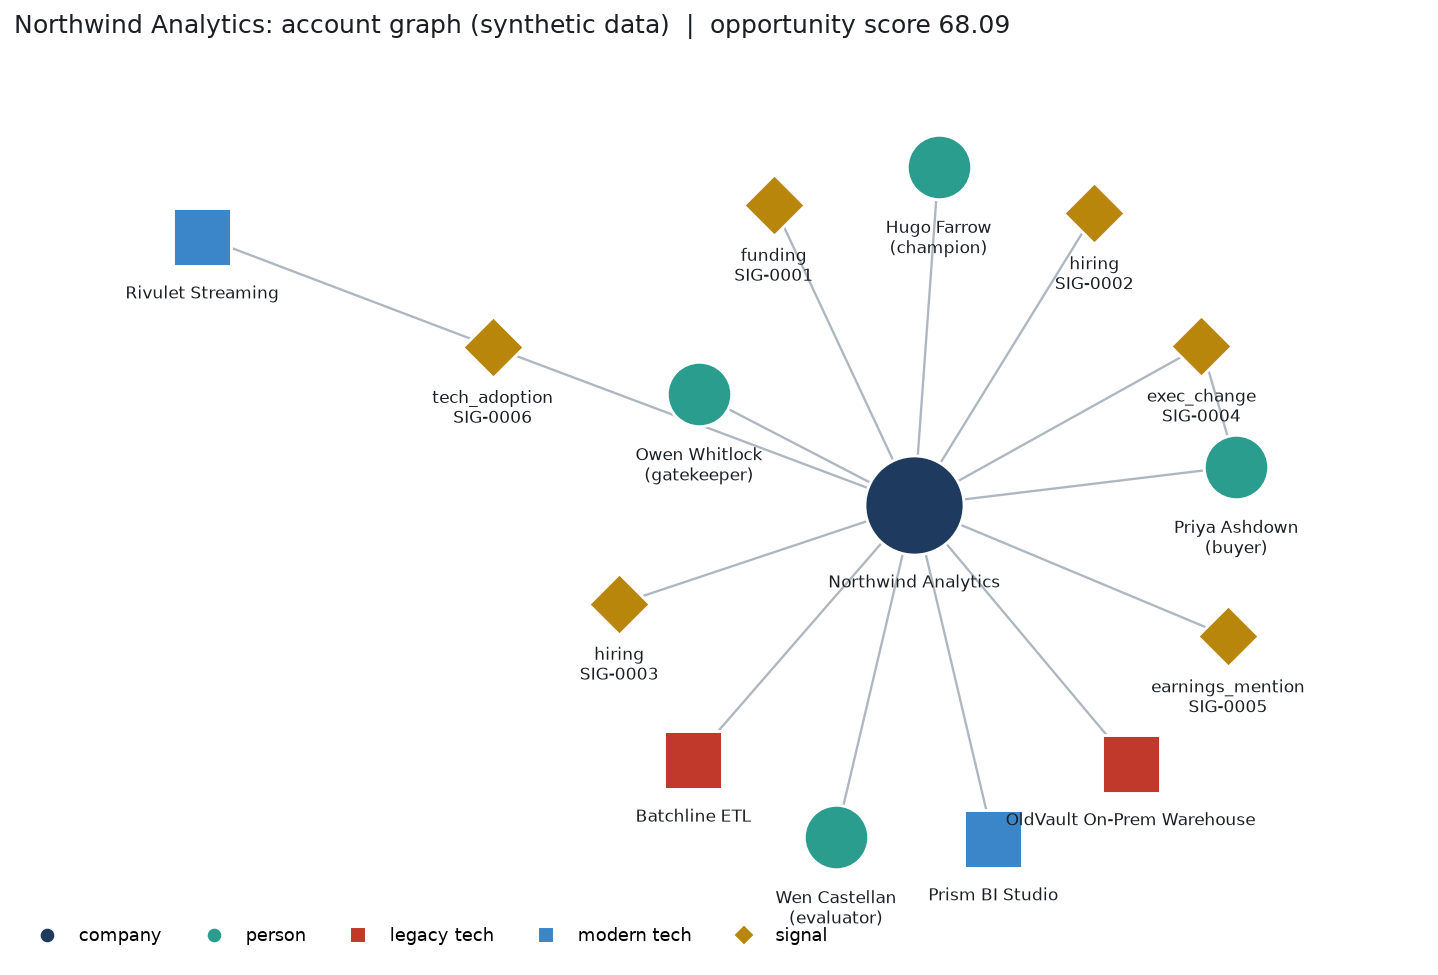
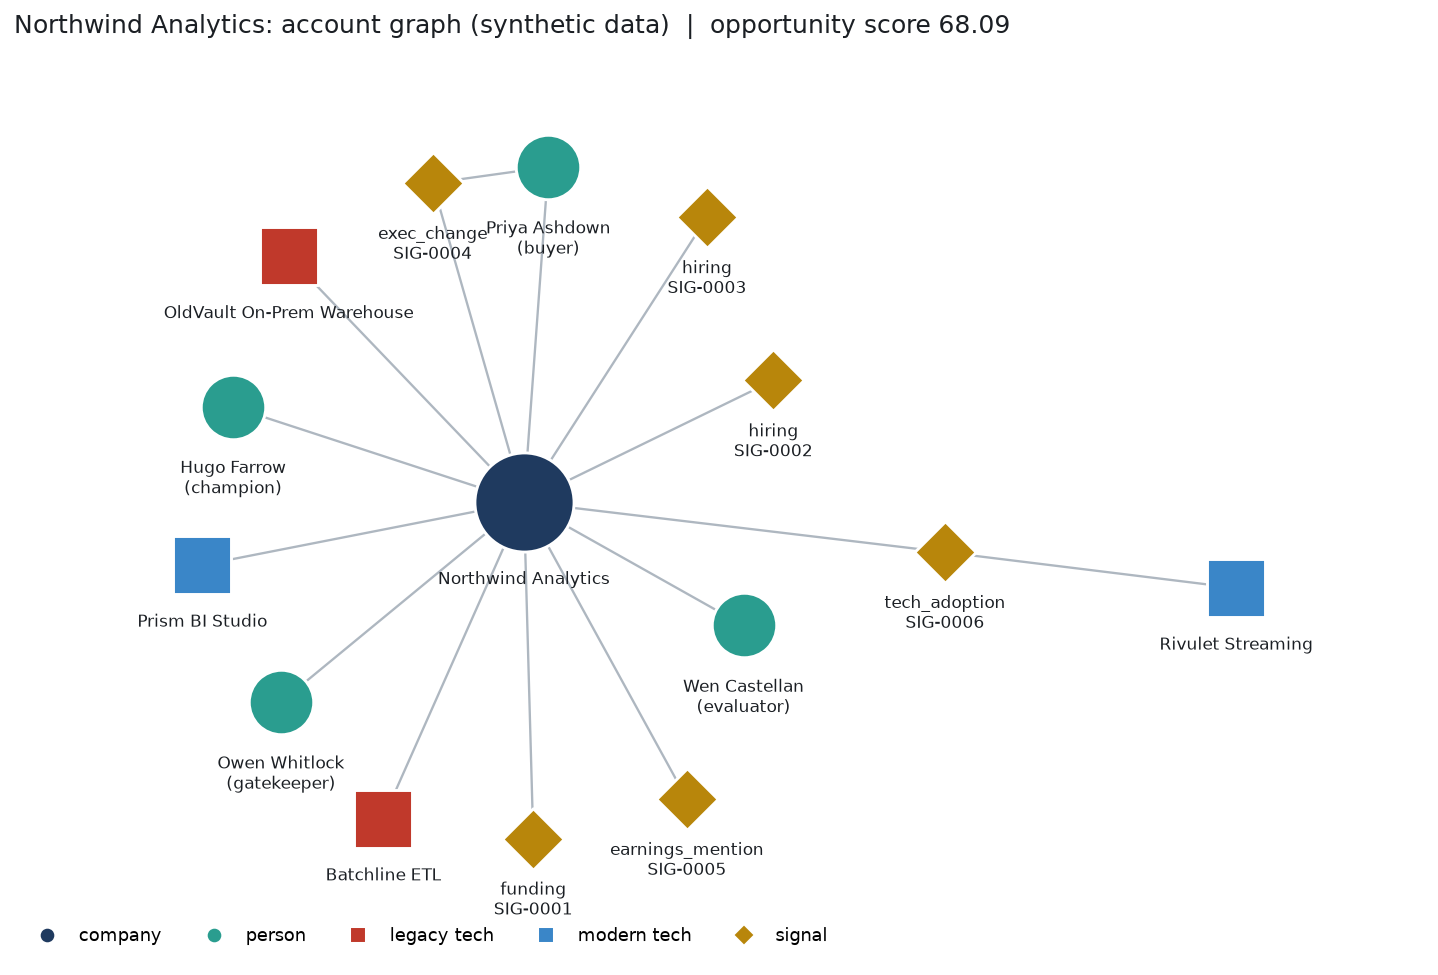
README quickstart and links, stricter LLM validation, softer funding language

diff --git a/outputs/brief_northwind_analytics.html b/outputs/brief_northwind_analytics.html
@@ -39,7 +39,7 @@
   </div>
 
   <h2>Suggested angle</h2>
-  <div class="card"><ul style="margin:0;padding-left:20px"><li style="margin:4px 0">Modernisation window: legacy stack (Batchline ETL, OldVault On-Prem Warehouse) alongside hiring and stated priority [SIG-0003, SIG-0005]. Position Aster Data Cloud as the migration path, not a rip-and-replace.</li><li style="margin:4px 0">New data leader [SIG-0004]: leaders usually reset platform decisions in their first months. Offer a short evidence-based review.</li><li style="margin:4px 0">Fresh funding [SIG-0001] means budget exists but pressure to show scale. Lead with time-to-value.</li><li style="margin:4px 0">Active evaluation signal [SIG-0006]: ask what the pilot is meant to prove before it ends.</li></ul></div>
+  <div class="card"><ul style="margin:0;padding-left:20px"><li style="margin:4px 0">Modernisation window: legacy stack (Batchline ETL, OldVault On-Prem Warehouse) alongside hiring and stated priority [SIG-0003, SIG-0005]. Position Aster Data Cloud as the migration path, not a rip-and-replace.</li><li style="margin:4px 0">New data leader [SIG-0004]: leaders usually reset platform decisions in their first months. Offer a short evidence-based review.</li><li style="margin:4px 0">Recent funding [SIG-0001] may indicate investment capacity, not confirmed budget. Validate who owns the data platform budget and when it is allocated.</li><li style="margin:4px 0">Active evaluation signal [SIG-0006]: ask what the pilot is meant to prove before it ends.</li></ul></div>
 
   <h2>Stakeholders</h2>
   <div class="card"><table>

diff --git a/src/cig/synthesis.py b/src/cig/synthesis.py
@@ -1,9 +1,10 @@
 """Brief narrative. Two modes, described honestly:
 
 * template (default): deterministic rules over the scored facts. No model involved.
-* llm (optional, needs ANTHROPIC_API_KEY): ONE grounded model call that rewrites the narrative from
-  the same structured facts. It is a single call, not an autonomous agent. Output is validated:
-  any cited signal ID that is not in the profile makes us fall back to the template.
+* llm (optional, needs ANTHROPIC_API_KEY): ONE model call that rewrites the narrative from the same
+  structured facts. It is a single call, not an autonomous agent. Output is checked: any cited signal ID
+  not in the profile, or any figure not present in the input facts, falls back to the template.
+  Limit: it does not verify that each claim is semantically supported by its cited signal.
 """
 import json
 import os
@@ -17,6 +18,7 @@ from .config import SELLER_PRODUCT
 MODEL = os.environ.get("CIG_MODEL", "claude-sonnet-5-5")
 TEMPLATES = Path(__file__).parent / "templates"
 SIG_RE = re.compile(r"SIG-\d{4}")
+NUM_RE = re.compile(r"\d+(?:\.\d+)?")
 
 
 def _top_signals(profile, n=3):
@@ -47,8 +49,8 @@ def narrative_template(profile: dict) -> dict:
                            "platform decisions in their first months. Offer a short evidence-based review.")
         questions.append("What did the new data leader commit to in the first 90 days?")
     if by_type.get("funding"):
-        angle_parts.append(f"Fresh funding [{by_type['funding'][0]['signal_id']}] means budget exists "
-                           "but pressure to show scale. Lead with time-to-value.")
+        angle_parts.append(f"Recent funding [{by_type['funding'][0]['signal_id']}] may indicate investment capacity, "
+                           "not confirmed budget. Validate who owns the data platform budget and when it is allocated.")
     if by_type.get("tech_adoption"):
         angle_parts.append(f"Active evaluation signal [{by_type['tech_adoption'][0]['signal_id']}]: "
                            "ask what the pilot is meant to prove before it ends.")
@@ -74,12 +76,12 @@ def _facts_for_llm(profile: dict) -> dict:
 
 
 SYSTEM = ("You write concise account briefs for a B2B seller. Use ONLY the facts in the JSON the user "
-          "sends. Never invent facts, numbers or names. Cite supporting signals as [SIG-0000]. "
+          "sends. Never invent facts, numbers or names. Treat funding as a capacity signal, not proof of budget. Cite supporting signals as [SIG-0000]. "
           "Return JSON with keys: summary (string), angle (array of 1-4 short strings), questions (array of 3 strings).")
 
 
 def narrative_llm(profile: dict, client=None) -> dict:
-    """One grounded call. Raises ValueError if the output cannot be trusted."""
+    """One validated call. Raises ValueError if the output cannot be trusted."""
     if client is None:
         import anthropic  # optional dependency
         client = anthropic.Anthropic()
@@ -93,12 +95,17 @@ def narrative_llm(profile: dict, client=None) -> dict:
     known = {s["signal_id"] for s in profile["signals"]}
     cited = set(SIG_RE.findall(json.dumps(out)))
     if not cited or not cited <= known:
-        raise ValueError(f"Ungrounded citations: {sorted(cited - known) or 'none cited'}")
+        raise ValueError(f"Unknown citations: {sorted(cited - known) or 'none cited'}")
+    facts_text = SIG_RE.sub("", json.dumps(_facts_for_llm(profile)))
+    allowed = set(NUM_RE.findall(facts_text))
+    invented = sorted(set(NUM_RE.findall(SIG_RE.sub("", json.dumps(out)))) - allowed)
+    if invented:
+        raise ValueError(f"Figures not present in input facts: {invented}")
     if not all(k in out for k in ("summary", "angle", "questions")):
         raise ValueError("Missing keys in model output")
     if isinstance(out["angle"], str):
         out["angle"] = [out["angle"]]
-    out["mode"] = f"llm ({MODEL}), single grounded call, citations validated"
+    out["mode"] = f"llm ({MODEL}), single call, citations and figures validated"
     return out
 
 

diff --git a/tests/test_cig.py b/tests/test_cig.py
@@ -111,6 +111,14 @@ def test_llm_mode_rejects_invented_citation_and_falls_back(env):
     assert n["mode"].startswith("template (LLM output rejected")
 
 
+def test_llm_mode_rejects_invented_figure(env):
+    _, conn, weights = env
+    p = account_profile(conn, config.HERO_COMPANY, weights)
+    bad = json.dumps({"summary": "Raised $400M [SIG-0001].", "angle": ["x"], "questions": ["a", "b", "c"]})
+    with pytest.raises(ValueError, match="Figures"):
+        narrative_llm(p, FakeClient(bad))
+
+
 def test_llm_requested_without_key_falls_back(env, monkeypatch):
     _, conn, weights = env
     monkeypatch.delenv("ANTHROPIC_API_KEY", raising=False)

diff --git a/src/cig/cli.py b/src/cig/cli.py
@@ -125,7 +125,7 @@ def main(argv=None):
     s.set_defaults(fn=cmd_init)
     s = sub.add_parser("brief", help="account research brief for one company")
     s.add_argument("company")
-    s.add_argument("--llm", action="store_true", help="optional single grounded model call")
+    s.add_argument("--llm", action="store_true", help="optional single validated model call")
     s.set_defaults(fn=cmd_brief)
     s = sub.add_parser("opportunities", help="ranked, explainable opportunity list")
     s.add_argument("--top", type=int, default=10)

diff --git a/README.md b/README.md
@@ -4,10 +4,13 @@ A small, illustrative pipeline that turns scattered market signals into an **exp
 
 > **All data is synthetic.** Every company, person, number, source ID and URL is invented (evidence links point to `example.test`). Any resemblance to real entities is coincidental. This is a showcase of approach, not a production system, and it contains no client data, personal data, credentials or proprietary scoring logic.
 
+**See it without installing anything:** [example account brief](outputs/brief_northwind_analytics.md) | [architecture notes](docs/architecture.md) | [market map](outputs/map_retail_data_platforms.png) | [weekly digest](outputs/digest.md)
+
 ## Run it (about 60 seconds)
 
 ```bash
-git clone <this repo> && cd commercial-intelligence-graph
+git clone https://github.com/beatzgpt/commercial-intelligence-graph.git
+cd commercial-intelligence-graph
 python3 -m venv .venv && source .venv/bin/activate
 pip install -e ".[dev]"
 cig demo          # no network, no API key
@@ -32,7 +35,7 @@ flowchart LR
     C --> E[Scoring<br/>scoring.yaml]
     D --> F[Queries<br/>profile, rank, digest]
     E --> F
-    F --> G[Narrative<br/>template or 1 grounded LLM call]
+    F --> G[Narrative<br/>template or 1 validated LLM call]
     G --> H[Outputs<br/>brief MD/HTML, graphs, digest]
 ```
 
@@ -63,7 +66,7 @@ Excerpt of the terminal run:
 |---|---|---|
 | Data generation, ingest, graph, scoring, ranking, digest | **Deterministic workflow** | Same seed and weights give byte-identical results |
 | Brief narrative, default | **Deterministic template** | Rules over scored facts, no model |
-| Brief narrative, `--llm` | **LLM-assisted synthesis (optional)** | One grounded call (needs `ANTHROPIC_API_KEY`, `pip install ".[llm]"`). Output is validated: any invented signal ID triggers a fallback to the template |
+| Brief narrative, `--llm` | **LLM-assisted synthesis (optional)** | One call (needs `ANTHROPIC_API_KEY`, `pip install ".[llm]"`). Output is checked: every cited signal ID must exist and every figure must appear in the input facts, otherwise it falls back to the template. It does not verify that each claim is semantically supported by the cited signal |
 | Autonomous research loop with tools and self-checking | **Not built** | Listed under Planned. Nothing here should be read as an "agent" |
 
 ## Technical capabilities and what they enable commercially
@@ -74,7 +77,7 @@ Excerpt of the terminal run:
 | Graph relationships (people, tech, signals) | Stakeholder and champion mapping before the first call |
 | Provenance on every signal | Evidence you can show a buyer or a sales manager |
 | Explainable, configurable scoring | Prioritisation and pipeline conversations you can defend and tune |
-| Grounded LLM synthesis with output validation | Pre-call prep in minutes without hallucinated facts |
+| LLM synthesis with citation and figure validation | Faster pre-call prep, with a guard against invented signal IDs and numbers |
 | Offline-first, seeded, tested | Safe to demo anywhere, results reproducible |
 
 ## Other use cases
@@ -91,7 +94,7 @@ Excerpt of the terminal run:
 | Seeded synthetic generator, SQLite ingest with provenance checks | Live public-API connectors |
 | Knowledge graph, 4 use cases, explainable scoring | Scheduled runs and alert delivery |
 | MD and HTML briefs, graph images, digest | CRM export |
-| Optional single LLM call with citation validation | Multi-step research agent with tool use and self-checks |
+| Optional single LLM call with citation and figure validation | Multi-step research agent with tool use and self-checks; semantic claim verification |
 | 11 tests, offline CLI | Graph database backend, cross-source entity resolution |
 
 ## Layout

diff --git a/docs/architecture.md b/docs/architecture.md
@@ -7,7 +7,7 @@
 3. **Graph** (`graph.py`): NetworkX `MultiDiGraph`. Node kinds: company, person, tech, signal. Edge relations: `works_at`, `uses`, `observed_at_company`, `mentions_tech`, `mentions_person`. Signal edges keep the `signal_id`.
 4. **Scoring** (`scoring.py`): per-signal points = `weight x confidence x 0.5^(age/half_life)`; structural points from graph facts. Each contribution keeps `signal_id`, `source_id`, `evidence_url`.
 5. **Queries** (`queries.py`): account profile, ranked opportunities, segment filter, 30-day digest.
-6. **Narrative** (`synthesis.py`): template rules by default. Optional single LLM call receives only the structured facts, must cite signal IDs, and is rejected if any cited ID is not in the profile.
+6. **Narrative** (`synthesis.py`): template rules by default. Optional single LLM call receives only the structured facts, must cite signal IDs, and is rejected if any cited ID is not in the profile or if it contains a number that does not appear in the input facts. It does not check that each claim is semantically supported by its cited signal (planned).
 7. **Outputs**: Jinja2 templates render Markdown and HTML briefs; Matplotlib draws the account graph and segment map.
 
 ## Design choices

diff --git a/outputs/brief_northwind_analytics.md b/outputs/brief_northwind_analytics.md
@@ -11,7 +11,7 @@ Northwind Analytics (Retail Data Platforms, 1200 employees, UK) ranks 1 of 30 wi
 ## Suggested angle
 - Modernisation window: legacy stack (Batchline ETL, OldVault On-Prem Warehouse) alongside hiring and stated priority [SIG-0003, SIG-0005]. Position Aster Data Cloud as the migration path, not a rip-and-replace.
 - New data leader [SIG-0004]: leaders usually reset platform decisions in their first months. Offer a short evidence-based review.
-- Fresh funding [SIG-0001] means budget exists but pressure to show scale. Lead with time-to-value.
+- Recent funding [SIG-0001] may indicate investment capacity, not confirmed budget. Validate who owns the data platform budget and when it is allocated.
 - Active evaluation signal [SIG-0006]: ask what the pilot is meant to prove before it ends.
 
 ## Stakeholders
